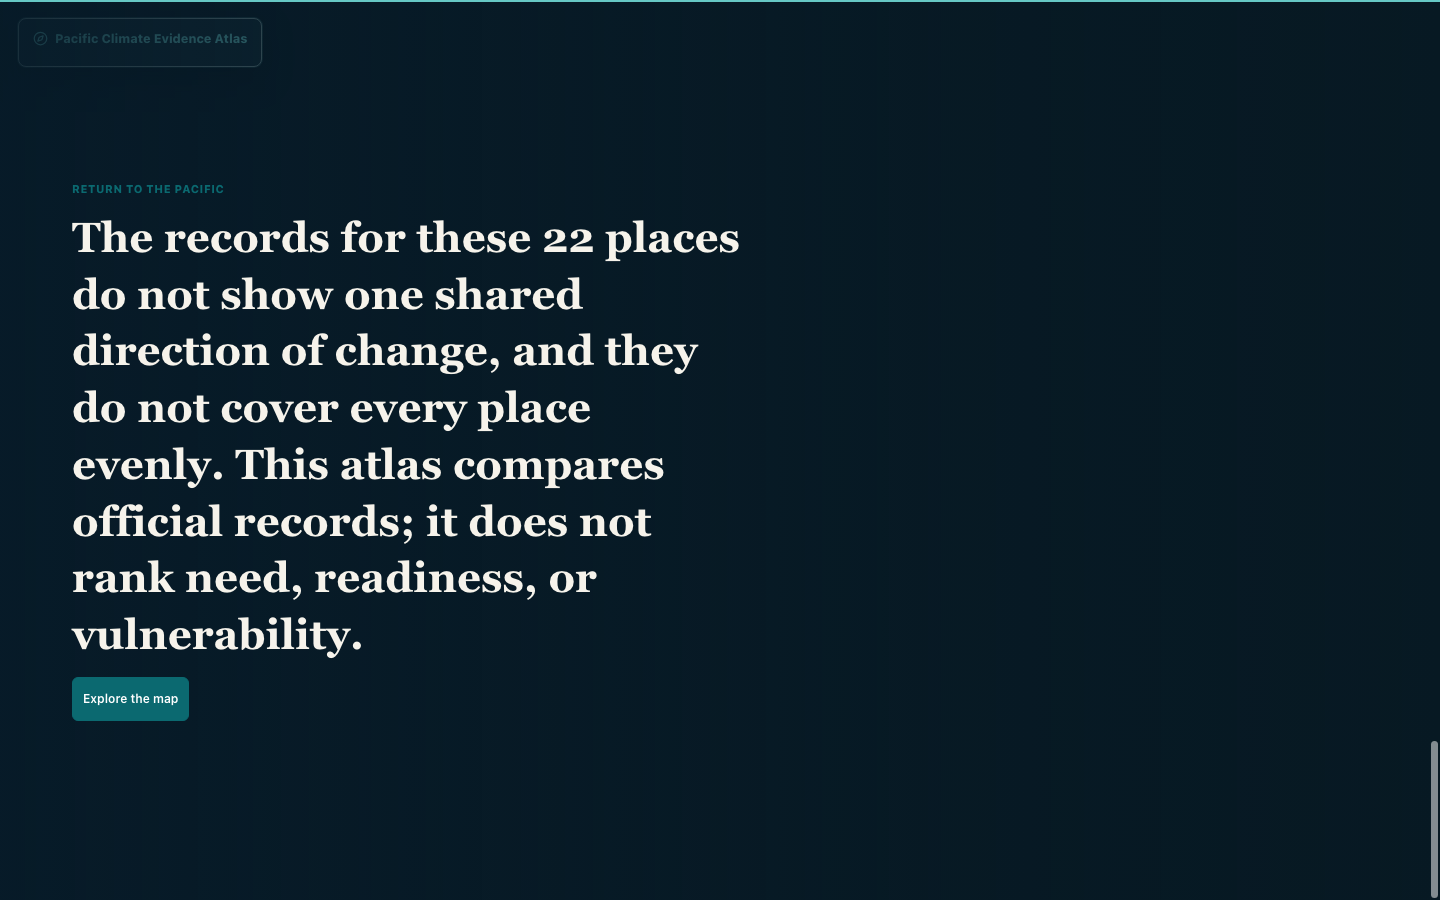
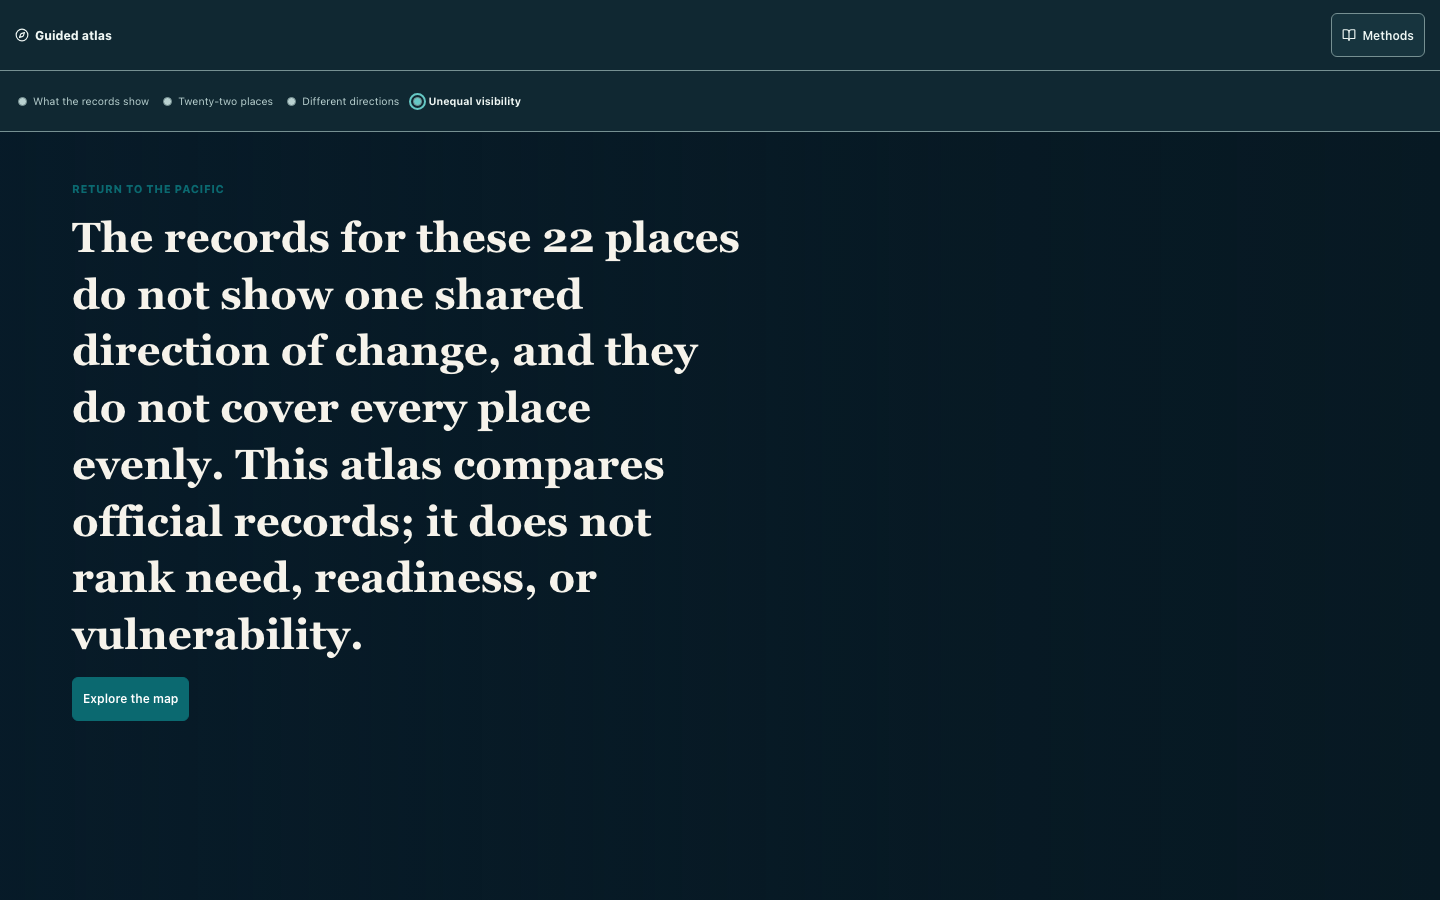
fix(story): TASK-116 clear landscape handoff header

diff --git a/app/src/components/story/StoryScrolly.test.tsx b/app/src/components/story/StoryScrolly.test.tsx
@@ -130,6 +130,25 @@ describe("fullscreen story shell", () => {
     expect(failureIsolation).not.toContain("visibility: hidden");
   });
 
+  it("keeps the complete landscape handoff below the sticky story chrome", () => {
+    const landscapeStart = styles.indexOf(
+      "@media (max-width: 880px) and (orientation: landscape) {",
+    );
+    const landscapeEnd = styles.indexOf(
+      "/* ---------- premise legibility (TASK-086) ---------- */",
+      landscapeStart,
+    );
+    const landscapeRules = styles.slice(landscapeStart, landscapeEnd);
+
+    expect(landscapeRules).toMatch(
+      /\.story-handoff\s*\{[^}]*padding:\s*9rem 1rem 1\.25rem;/,
+    );
+    expect(landscapeRules).toMatch(
+      /\.story-handoff__copy\s*\{[^}]*max-width:\s*none;/,
+    );
+    expect(landscapeRules).not.toMatch(/\.story-handoff__copy\s*\{[^}]*font-size:/);
+  });
+
   it("defines low-light chrome roles while keeping the map and evidence marks flat", () => {
     const root = styles.match(/:root\s*\{([\s\S]*?)\}/)?.[1] ?? "";
     const protectedRules = (styles.match(/[^{}]+\{[^{}]*\}/g) ?? [])

diff --git a/app/src/styles/base.css b/app/src/styles/base.css
@@ -523,6 +523,8 @@ h1, h2, h3 { font-family: var(--font-serif); font-weight: 600; letter-spacing: 0
   .controls { grid-template-columns: repeat(2, minmax(0, 1fr)); grid-template-rows: 44px; }
   .dock--legend { top: 10px; right: 10px; bottom: auto; left: auto; width: calc(50% - 15px); }
   .story-scene[data-stage-mode="figure-takeover"] { padding-top: 5rem; }
+  .story-handoff { padding: 9rem 1rem 1.25rem; }
+  .story-handoff__copy { max-width: none; }
 }
 
 /* ---------- premise legibility (TASK-086) ---------- */
